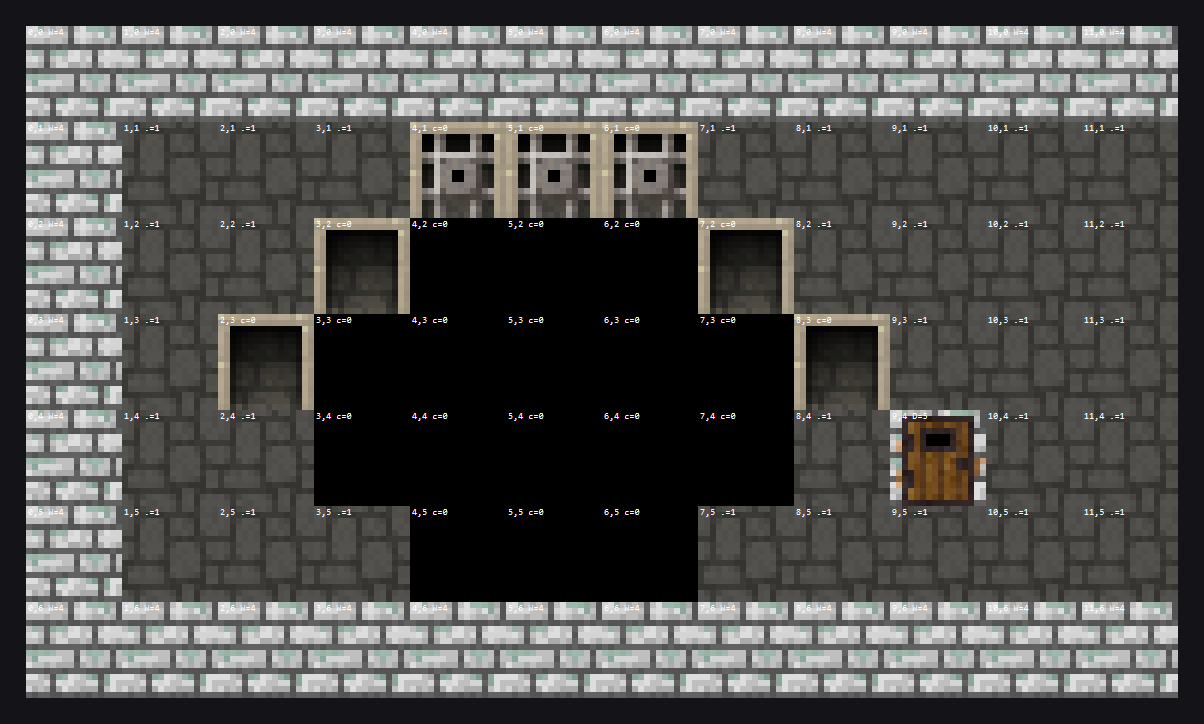
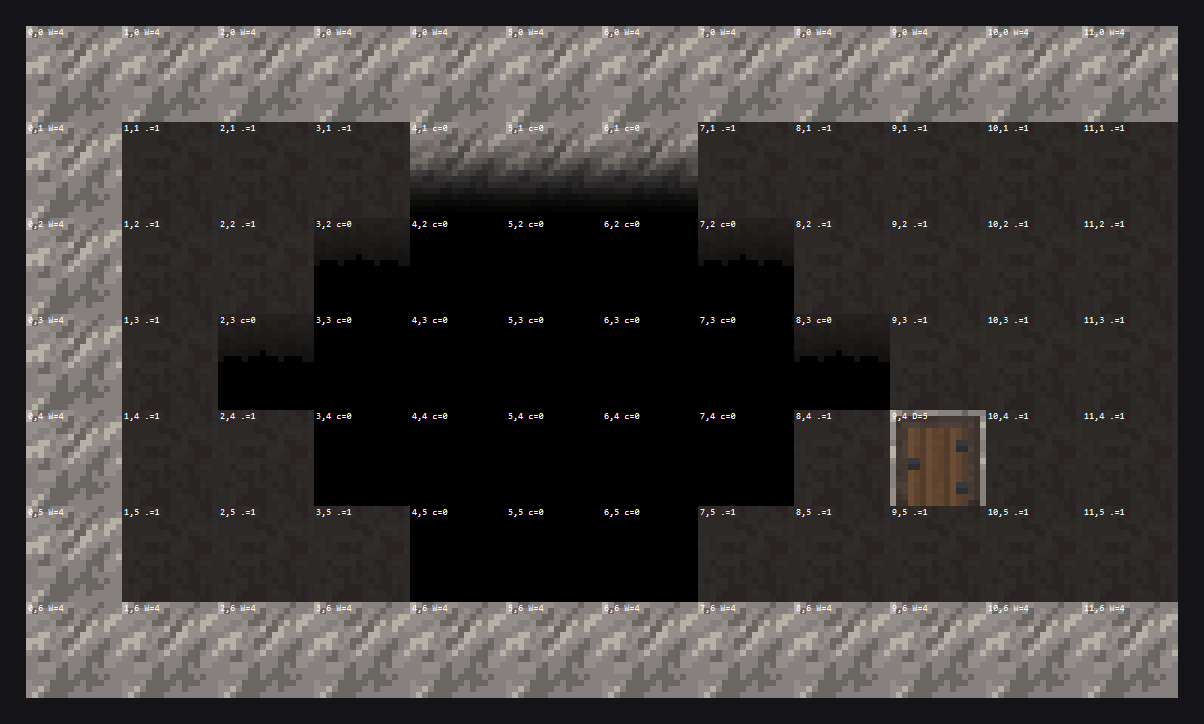
深渊：帧号改为 xy(1,1)/(12,2)/(13,2)/(14,2)/(16,2) = 0/27/28/29/31（邻陆地/木桥/墙/水），图集回到 SPS tiles

diff --git a/core/src/java/pd/tiles/DungeonTileSheet.java b/core/src/java/pd/tiles/DungeonTileSheet.java
@@ -76,14 +76,14 @@ public class DungeonTileSheet {
 
 	public static final int ENTRANCE_SP     = GROUND +22;
 
-	//SPS: 深渊各形态在 tiles_*.png 里【不是连续段】，逐个指定（已核对）：
-	//  1,1=0   完整深渊        13,3=44 邻接地板
-	//  14,3=45 邻接墙          16,3=47 邻接水
+	//SPS: 深渊各形态在 sps_tiles_*.png 里【不是连续段】，逐个指定（已核对坐标）：
+	//  (1,1)=0  完整深渊     (12,2)=27 邻接陆地
+	//  (13,2)=28 邻接木桥    (14,2)=29 邻接墙体    (16,2)=31 邻接水
 	public static final int CHASM           =                               xy(1, 1);
-	public static final int CHASM_FLOOR     =                               xy(13, 3);
-	public static final int CHASM_FLOOR_SP  =                               xy(13, 3);
-	public static final int CHASM_WALL      =                               xy(14, 3);
-	public static final int CHASM_WATER     =                               xy(16, 3);
+	public static final int CHASM_FLOOR     =                               xy(12, 2);
+	public static final int CHASM_FLOOR_SP  =                               xy(13, 2);
+	public static final int CHASM_WALL      =                               xy(14, 2);
+	public static final int CHASM_WATER     =                               xy(16, 2);
 
 	//tiles that can stitch with chasms (from above), and which visual represents the stitching
 	public static SparseArray<Integer> chasmStitcheable = new SparseArray<>();

diff --git a/core/src/java/pd/tiles/SpsChasmEdgesTilemap.java b/core/src/java/pd/tiles/SpsChasmEdgesTilemap.java
@@ -7,7 +7,6 @@
 
 package pd.tiles;
 
-import pd.Assets;
 import pd.Dungeon;
 import pd.levels.Terrain;
 
@@ -29,21 +28,10 @@ import pd.levels.Terrain;
 public class SpsChasmEdgesTilemap extends DungeonTilemap {
 
 	public SpsChasmEdgesTilemap(){
-		super( chasmTex() );
+		//深渊各形态与地形同在一个 SPS 图集（sps_tiles_*_legacy.png）里，
+		//帧号见 DungeonTileSheet 的 CHASM 系列常量。
+		super( Dungeon.level.tilesTex() );
 		map( Dungeon.level.map, Dungeon.level.width() );
-	}
-
-	/**
-	 * 深渊各形态位于【破碎图集】tiles_*.png（帧号按 xy() 换算，见 DungeonTileSheet），
-	 * 而不是地形层用的 SPS 图集，所以这里单独按主题映射一次。
-	 */
-	private static String chasmTex(){
-		String t = Dungeon.level.tilesTex();
-		if (Assets.Environment.SPS_TILES_SEWERS_LEGACY.equals(t)) return Assets.Environment.TILES_SEWERS;
-		if (Assets.Environment.SPS_TILES_PRISON_LEGACY.equals(t)) return Assets.Environment.TILES_PRISON;
-		if (Assets.Environment.SPS_TILES_CAVES_LEGACY.equals(t))  return Assets.Environment.TILES_CAVES;
-		if (Assets.Environment.SPS_TILES_CITY_LEGACY.equals(t))   return Assets.Environment.TILES_CITY;
-		return Assets.Environment.TILES_HALLS;
 	}
 
 	@Override
